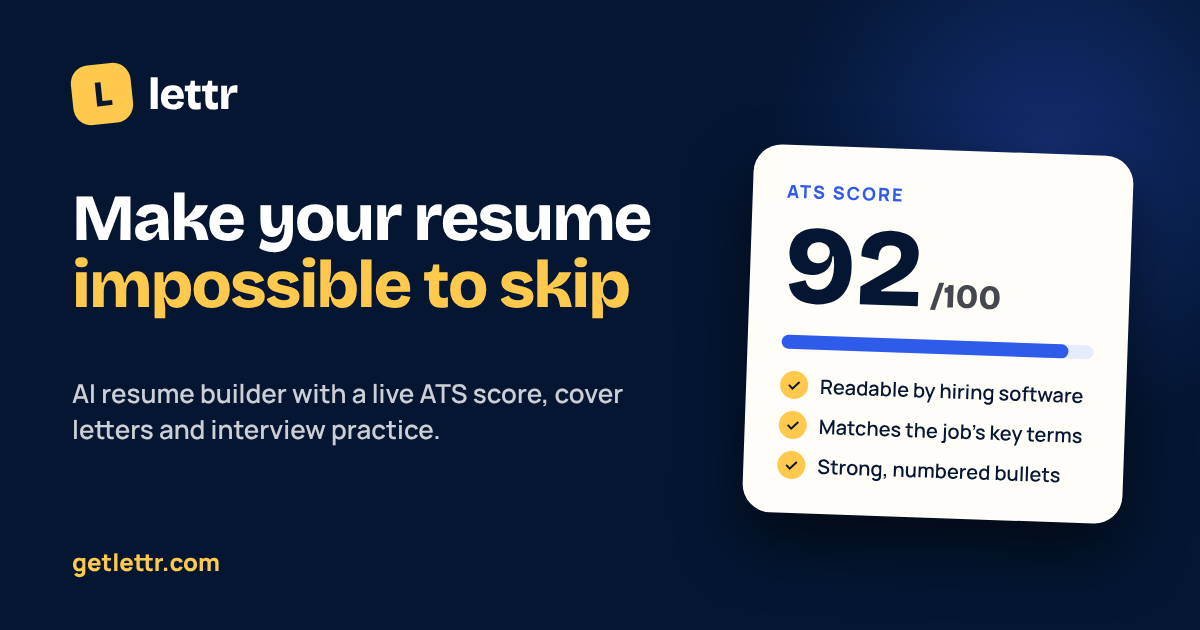
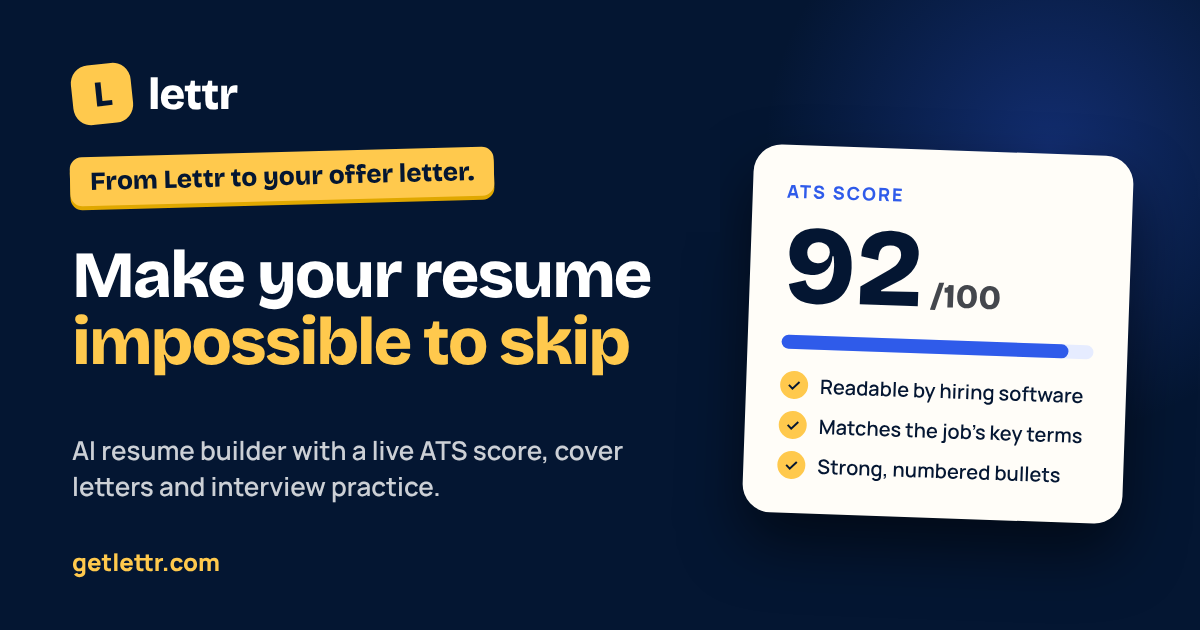
Put the tagline wherever people see Lettr
- Link previews (WhatsApp, LinkedIn, X...): share image now carries the
  "From Lettr to your offer letter." stamp; alt text updated.
- Page descriptions, Google snippet, app manifest and structured data
  (slogan) lead with the tagline.
- Sign-in / sign-up side panel shows the stamp; the dashboard sidebar
  shows the tagline under the logo.
- Shared TaglineStamp component (home page uses it too).

Claude-Session: https://claude.ai/code/session_0196YWF3x6WJx92YuZPGbFom

Changed region(s): [[0.0308, 0.2111, 0.555, 0.8143]]

diff --git a/app/page.tsx b/app/page.tsx
@@ -16,6 +16,7 @@ import { FREE_AI_TRY_LINE, FAIR_USE_HREF } from "@/lib/limits";
 import { COMPANY, operatorName } from "@/lib/company";
 import { PrivacyNote } from "@/components/PrivacyNote";
 import { TAGLINE } from "@/lib/tagline";
+import { TaglineStamp } from "@/components/TaglineStamp";
 
 // Revalidate hourly rather than fetching featured reviews on every single
 // page load - this is the highest-traffic page, no reason to hit the
@@ -25,11 +26,11 @@ export const revalidate = 3600;
 export const metadata: Metadata = {
   title: `${TAGLINE.replace(/\.$/, "")} | Lettr AI Resume & CV Builder`,
   description:
-    "Free AI resume builder and CV maker. Check your ATS score against any job, rewrite bullet points with AI and write a tailored cover letter.",
+    `${TAGLINE} Free AI resume builder and CV maker. Check your ATS score against any job, rewrite bullet points with AI and write a tailored cover letter.`,
   alternates: { canonical: "/" },
   openGraph: {
     title: `${TAGLINE.replace(/\.$/, "")} | Lettr AI Resume & CV Builder`,
-    description: "Build an ATS-friendly resume or CV with AI. Instant ATS score, AI bullet rewrites, tailored cover letters.",
+    description: `${TAGLINE} Build an ATS-friendly resume or CV with AI. Instant ATS score, AI bullet rewrites, tailored cover letters.`,
     url: "/",
     siteName: "Lettr",
     type: "website",
@@ -37,7 +38,7 @@ export const metadata: Metadata = {
   twitter: {
     card: "summary_large_image",
     title: `${TAGLINE} Lettr AI Resume & CV Builder`,
-    description: "Build an ATS-friendly resume or CV with AI. Free to start.",
+    description: `${TAGLINE} Build an ATS-friendly resume or CV with AI. Free to start.`,
   },
 };
 
@@ -130,7 +131,8 @@ export default async function Home() {
     name: "Lettr",
     applicationCategory: "BusinessApplication",
     operatingSystem: "Web",
-    description: "AI-assisted resume builder with ATS scoring, AI bullet rewriting, and tailored cover letters.",
+    slogan: TAGLINE,
+    description: `${TAGLINE} AI-assisted resume builder with ATS scoring, AI bullet rewriting, and tailored cover letters.`,
     offers: {
       "@type": "Offer",
       price: "0",
@@ -148,9 +150,7 @@ export default async function Home() {
       {/* Hero */}
       <section className={`${WRAP} pt-10 sm:pt-16 pb-16 sm:pb-24 grid lg:grid-cols-[1.05fr_1fr] gap-12 lg:gap-16 items-center`}>
         <div className="rise">
-          <p className="inline-block -rotate-[1.5deg] bg-ink text-gold font-brand font-extrabold text-xl sm:text-2xl px-5 py-2.5 rounded-xl shadow-[0_4px_0_var(--gold-deep)] mb-5">
-            {TAGLINE}
-          </p>
+          <TaglineStamp className="mb-5" />
           <br />
           <p className="inline-flex items-center gap-2 bg-gold-soft text-ink text-sm font-bold px-3.5 py-1.5 rounded-full mb-6">
             <span className="w-2 h-2 rounded-full bg-gold-deep" aria-hidden="true" />

diff --git a/components/AuthShell.tsx b/components/AuthShell.tsx
@@ -2,6 +2,7 @@ import { PublicNav } from "@/components/PublicNav";
 import { Footer } from "@/components/Footer";
 import { ResumeShot } from "@/components/home/ResumeShot";
 import { HERO_EXAMPLE } from "@/lib/home-examples";
+import { TaglineStamp } from "@/components/TaglineStamp";
 
 const PERKS = [
   "Free to start. No card needed.",
@@ -47,6 +48,7 @@ export function AuthShell({
               <span className="absolute -right-16 -top-16 w-64 h-64 rounded-full bg-brand-blue/40" />
               <span className="absolute -left-10 -bottom-12 w-48 h-48 rounded-full bg-gold/20" />
               <div className="relative">
+                <TaglineStamp tone="gold" className="mb-6" />
                 <p className="font-brand font-extrabold text-[34px] leading-[1.05] tracking-tight">
                   Make your resume impossible to skip.
                 </p>

diff --git a/components/AppSidebar.tsx b/components/AppSidebar.tsx
@@ -8,6 +8,7 @@ import { InstallAppButton } from "@/components/AppInstall";
 import { ProBadge } from "@/components/ProBadge";
 import { signOut } from "next-auth/react";
 import { Home, LayoutTemplate, MessageSquare, LifeBuoy, Crown, LogOut, ShieldAlert, Globe, Briefcase, Mic, Download, Menu, X } from "lucide-react";
+import { TAGLINE } from "@/lib/tagline";
 
 const BASE_NAV_ITEMS = [
   { href: "/dashboard", label: "Dashboard", icon: Home },
@@ -150,6 +151,7 @@ export function AppSidebar({
             <Logo dark href="/" />
             {plan === "pro" && <ProBadge />}
           </div>
+          <p className="px-6 -mt-1 pb-3 text-xs font-extrabold text-gold">{TAGLINE}</p>
 
           <nav className="flex-1 px-3 mt-2 space-y-1 overflow-y-auto">
             {NAV_ITEMS.map((item) => {

diff --git a/app/manifest.ts b/app/manifest.ts
@@ -1,11 +1,12 @@
 import type { MetadataRoute } from "next";
+import { TAGLINE } from "@/lib/tagline";
 
 /** Lets people add Lettr to their phone's home screen and open it like an app. */
 export default function manifest(): MetadataRoute.Manifest {
   return {
     name: "Lettr: AI Resume Builder",
     short_name: "Lettr",
-    description: "Build a job-ready resume, check your match, practise interviews and track applications.",
+    description: `${TAGLINE} Build a job-ready resume, check your match, practise interviews and track applications.`,
     start_url: "/dashboard?source=app",
     scope: "/",
     display: "standalone",

diff --git a/components/TaglineStamp.tsx b/components/TaglineStamp.tsx
@@ -1,0 +1,16 @@
+import { TAGLINE } from "@/lib/tagline";
+
+/**
+ * The tagline as a tilted stamp, so it stands out. "navy" for light pages,
+ * "gold" on navy panels.
+ */
+export function TaglineStamp({ tone = "navy", className = "" }: { tone?: "navy" | "gold"; className?: string }) {
+  const colours = tone === "navy" ? "bg-ink text-gold" : "bg-gold text-ink";
+  return (
+    <p
+      className={`inline-block -rotate-[1.5deg] ${colours} font-brand font-extrabold text-xl sm:text-2xl px-5 py-2.5 rounded-xl shadow-[0_4px_0_var(--gold-deep)] ${className}`}
+    >
+      {TAGLINE}
+    </p>
+  );
+}

diff --git a/app/layout.tsx b/app/layout.tsx
@@ -28,7 +28,7 @@ export const metadata: Metadata = {
     default: `Lettr: ${TAGLINE.replace(/\.$/, "")}`,
     template: "%s",
   },
-  description: "AI resume and CV builder with an ATS score checker and tailored cover letters.",
+  description: `${TAGLINE} AI resume and CV builder with an ATS score checker and tailored cover letters.`,
   robots: { index: true, follow: true },
   applicationName: "Lettr",
   appleWebApp: { capable: true, title: "Lettr", statusBarStyle: "default" },

diff --git a/lib/og.ts b/lib/og.ts
@@ -7,5 +7,5 @@ export const OG_IMAGE = {
   url: "/og-image.png",
   width: 1200,
   height: 630,
-  alt: "Lettr, the AI resume builder: make your resume impossible to skip.",
+  alt: "Lettr, the AI resume builder. From Lettr to your offer letter: make your resume impossible to skip.",
 };
